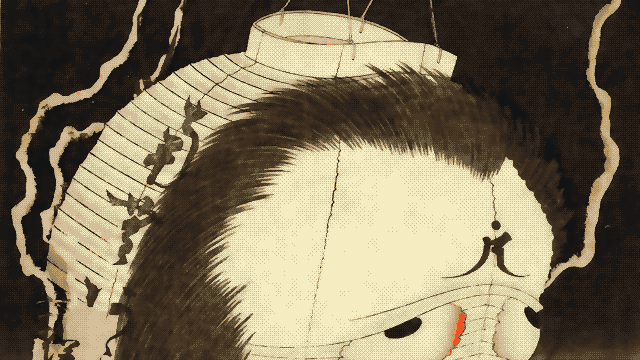
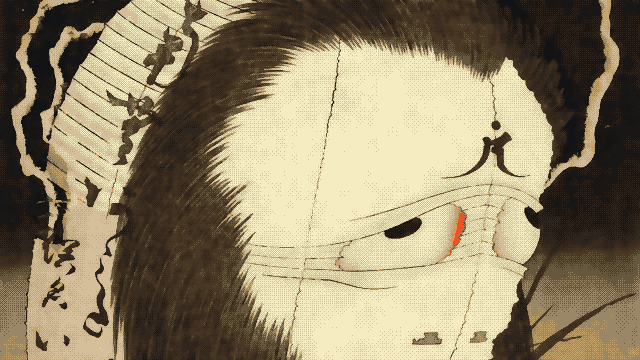
masters (T18 should-fixes 6, 9): Oiwa's eyes inside the frame; the white Kannon's face kept in the ramp

diff --git a/.claude/notes/02-LEDGER.md b/.claude/notes/02-LEDGER.md
@@ -4531,6 +4531,11 @@ Mac: tell owner to `sudo rm /etc/sudoers.d/90-claude-temp` on the Mac if present
   /dev/shm/r27/T18/kit/light/wall.png (benten-biwa: clean edges). Seen at 3×: right of the hag's second join the right
   sheet's black prints lighter (L 0.28–0.34 against the middle sheet's 0.20, rows 0–59) — a tone step between sheets,
   not the seam: should-fix 5's work (compose the sheets, a tone per sheet). MUST-FIX 4 DONE (test r27-18-mf4a + this).
+- r27-18-sf69 (4 Nov 01:25–01:28, the master's T18 should-fixes 6 and 9): oiwa-lantern's window lowered 250 source px
+  ([42, 545, 1602, 901], y 24–64 % of the print, as the master measured): the eyes well inside the frame, the lantern's top
+  the loss; white-kannon-kyosai `chroma = 0.12` (as raigo-1668): the face stays in the ramp — no gold patches on forehead,
+  cheeks and chin, nor on the hands. Before/after at 1:1: /dev/shm/r27/T18/sf69.png. Both pass the edge check; the list's
+  two new hashes; test_masters 3/0.
 ## >>> NEXT PASS STARTS HERE (3 Nov, written ~06:10 by the 03:32 bulk pass — the lines above say what it did): the inbox first.
 ## (0) PRESENCE before anything he could see or hear (memories presence-not-just-input-idle, probes-cut-off-session,
 ##     never-kill-a-computed-list): every kit/headless run through tools/hl-dwl.sh or tools/kit.sh; never a kill by a list.
@@ -4552,9 +4557,8 @@ Mac: tell owner to `sudo rm /etc/sudoers.d/90-claude-temp` on the Mac if present
 ##     heading row inside, choices as §7 keys, nothing in the border — rendered both moods, then the should-fixes, review 2.
 ## (3) T18 — the master's review 1 FAILED (r27-18-master-1): ALL FOUR must-fixes DONE (r27-18-mf1 the edge check and
 ##     seven crops, 8bf8d1c, r27-18-mf3, r27-18-mf4a + mf4b the sheet and in-place shots from the committed files);
-##     LEFT the should-fixes 5–10 (5: the sheets composed edge to edge with a tone each — the hag's right sheet prints
-##     lighter; 6 oiwa's crop; 7 calmer fields, margin ≈ 0.3; 8 stray accents; 9 white-kannon-kyosai's face; 10 the
-##     weakest named), then the master's review 2.
+##     should-fixes 6 + 9 DONE (r27-18-sf69); LEFT 5 (the sheets composed edge to edge with a tone each — the hag's right
+##     sheet prints lighter), 7 (calmer fields, margin ≈ 0.3), 8 (stray accents < 4 px), 10 (the weakest named), review 2.
 ## (4) T53 → the master (the harness pin committed, 150381b: the suite 128/0).
 ## (5) T46/T46b — Fedora 45 is released TODAY (3 Nov, ~14:00 UTC; releases/45 still 403 at 00:57 UTC): read
 ##     .claude/notes/f45-changes-3nov.md first; then vm-create f45 fresh from the released tree, vm-smoke f45,
